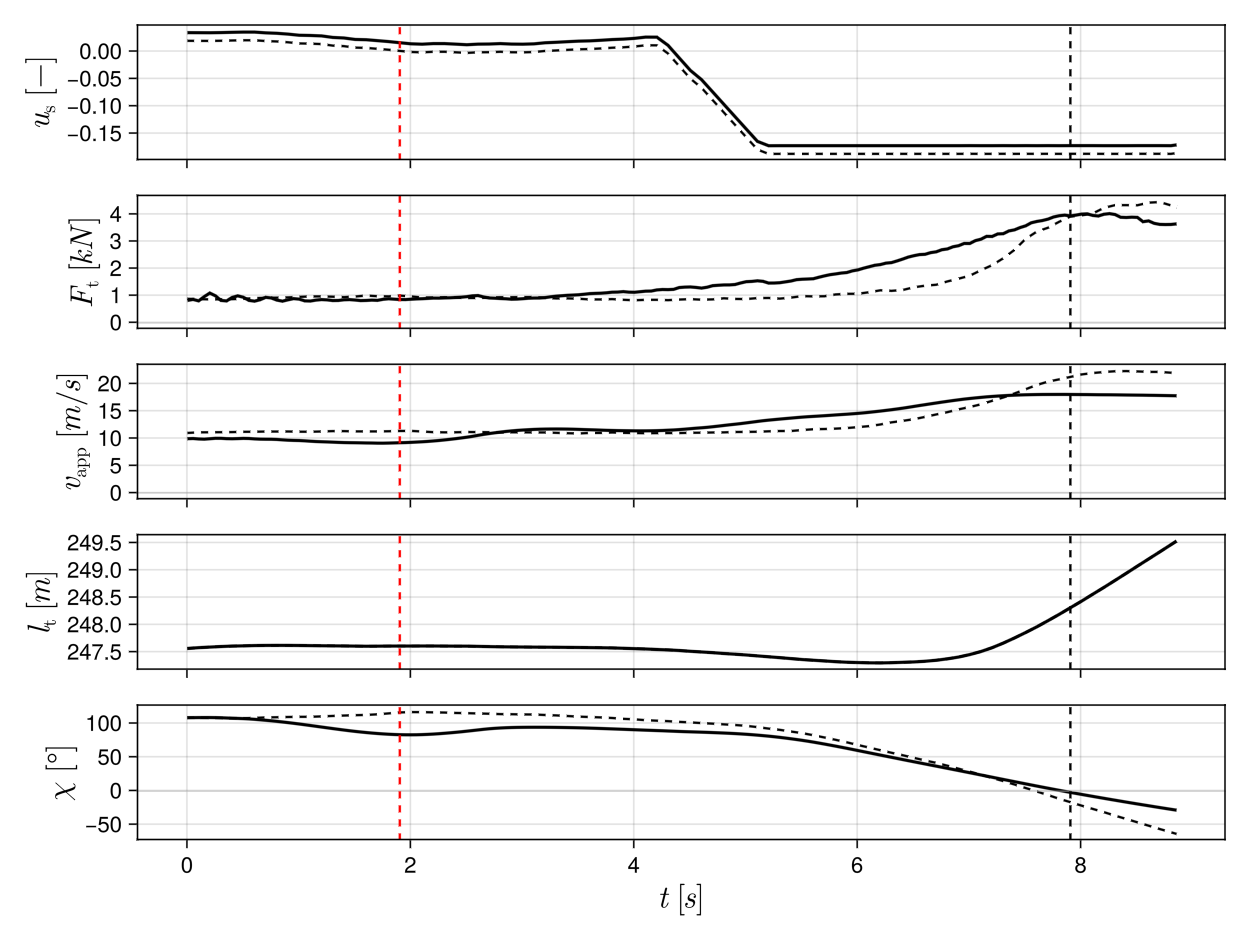
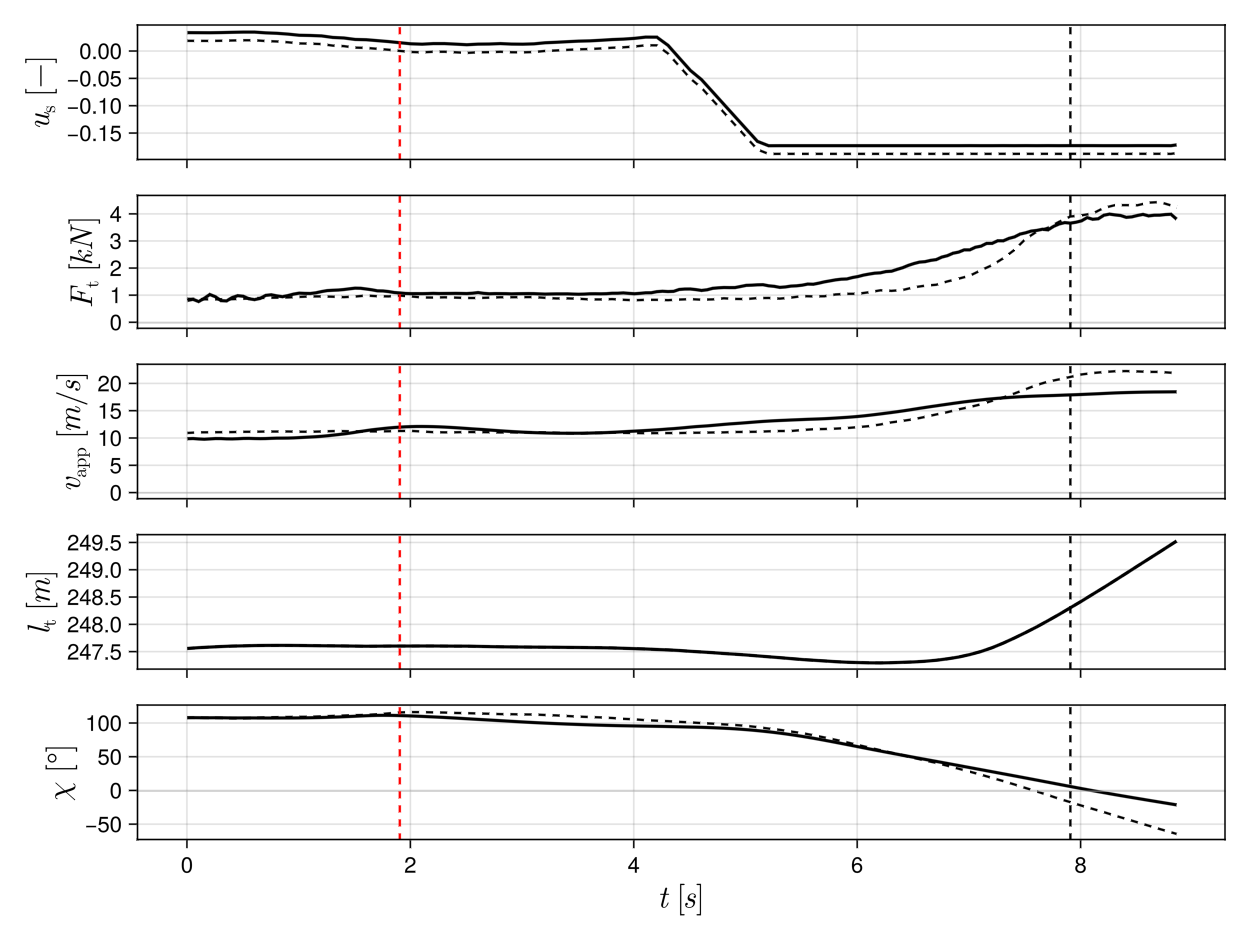
fix: keep the shortened tip lines when a settled state is loaded
apply_geom_adjustments! shortened the tip segments, which run through
pulleys, without telling the pulleys. The settle syncs them in place!,
but loading a cached settled state (every replay) re-applied the
adjustments with the pulleys still holding the YAML rope length, so both
a6 tip lines were 0.4 m slack at release. The kite flew with its tips
off the bridle and its course dropped 25 deg in the first 2 s.

The pulleys now take their rope lengths from the adjusted segments.
README replay figures and note redrawn from the fixed replay.

diff --git a/README.md b/README.md
@@ -133,7 +133,7 @@ plots.twist[7182]     # spanwise twist vs photogrammetry, keyed by video frame
 
 <p align="center"><img src="docs/figures/flight_replay_yaw_rate_course.png" width="90%" alt="Yaw rate vs course"></p>
 
-On this window the particle-wing replay stays within about 20 m of the recorded kite for the first 6 s. In the turn it speeds up and dives earlier than the kite did, and ends 34 m off. The two twist figures below are from an earlier version of the model and have not been redrawn yet ([#102](https://github.com/OpenSourceAWE/V3Kite.jl/issues/102)).
+On this window the particle-wing replay stays within about 16 m of the recorded kite for the first 6 s. It turns more slowly than the kite did and ends 36 m off. The two twist figures below are from an earlier version of the model and have not been redrawn yet ([#102](https://github.com/OpenSourceAWE/V3Kite.jl/issues/102)).
 
 <p align="center">
 <table><tr>

diff --git a/CHANGELOG.md b/CHANGELOG.md
@@ -31,6 +31,9 @@
   the flight replays) holds the recorded velocity and releases the kite with it, on
   the recorded course and speed. The replays start from a different state, and the
   settled states of this mode are cached under a new name ending in `_holdcourse`.
+- BREAKING: The tip-line shortening of the particle replays (`reduce_tip`) also holds
+  when a settled state is loaded from the cache, as every replay does. The tip lines
+  were slack from the first step, and the replays give different results.
 - BREAKING: `examples/flight_replay.jl` logs the steering it applies as `steering`, not
   `set_steering`, so the replay plots draw the simulated steering and fit its turn-rate
   gain. The README's trajectory, time-series and turn-rate figures are redrawn.
